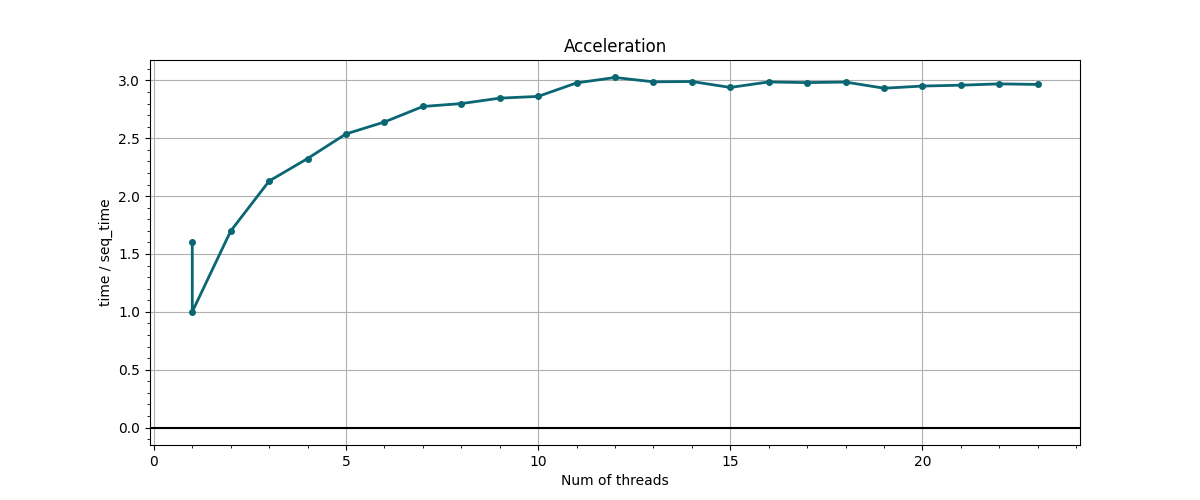
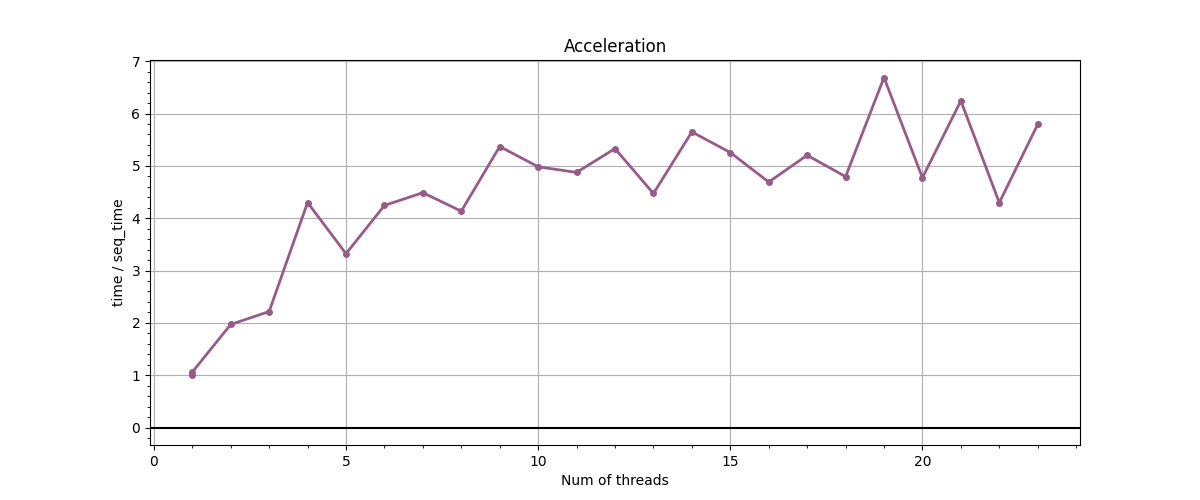
Paralleled it better

diff --git a/ParallelingLoops/2zh/parallel.cpp b/ParallelingLoops/2zh/parallel.cpp
@@ -2,6 +2,7 @@
 #include <string>
 #include <omp.h>
 #include <cmath>
+#include <cstring>
 
 constexpr int SIZE = 5000;
 constexpr int YSIZE = SIZE;
@@ -30,26 +31,61 @@ int main (int argc, char **argv) {
 
 //начало измерения времени
     double time_1 = omp_get_wtime();
-    omp_set_num_threads(strtol(argv[1], nullptr, 10));
+    const int threads = strtol(argv[1], nullptr, 10);
+    if (threads <= 1) {
+        for (int y=0; y < YSIZE - 2; y++){
+            for (int x = 3; x < XSIZE; x++){
+                matrix[y][x] = sin(0.1 * matrix[y+2][x-3]);
+            }
+        }
+        goto Finish;
+    }
+    omp_set_num_threads(threads);
 #pragma omp parallel
     {
-        for (int x = XSIZE - 3; x < XSIZE; ++x) {
-#pragma omp for nowait schedule(dynamic, 100)
-            for (int y = 0; y < YSIZE; ++y) {
-                fill_vector(y, x, matrix);
+        int curr_thr = omp_get_thread_num();
+        int group = curr_thr % 2;
+        int id_in_group = curr_thr / 2;
+        int threads_in_group, lines_of_group;
+        if (group) {
+            threads_in_group = threads / 2;
+            lines_of_group = YSIZE / 2;
+        } else {
+            threads_in_group = (threads + 1) / 2;
+            lines_of_group = (YSIZE + 1) / 2;
+        }
+        int lines = lines_of_group / threads_in_group;
+        int start = lines * id_in_group * 2;
+        if (group) {
+            start++;
+        }
+        double saved[XSIZE];
+        if (id_in_group == threads_in_group - 1) {
+            lines += (lines_of_group % threads_in_group);
+            // printf("[thread %i]: start with %i\n", curr_thr, start);
+        } else {
+            std::memcpy(saved, reinterpret_cast<const void *>(matrix[start + lines * 2]), XSIZE * sizeof(double));
+            // printf("[thread %i]: start with %i, save line %i\n", curr_thr, start, start + lines * 2);
+        }
+#pragma omp barrier
+        int y;
+        for (y = start; y < start + lines * 2 - 2; y += 2) {
+            for (int x = 3; x < XSIZE; ++x) {
+                matrix[y][x] = sin(0.1 * matrix[y+2][x-3]);
             }
         }
-        for (int y = 0; y < 2; ++y) {
-#pragma omp for nowait schedule(dynamic, 100)
-            for (int x = 0; x < XSIZE - 3; ++x) {
-                fill_vector(y, x, matrix);
+        if (id_in_group != threads_in_group - 1) {
+            for (int x = 3; x < XSIZE; ++x) {
+                matrix[y][x] = sin(0.1 * saved[x-3]);
             }
         }
+        //printf("thr %i => %i\n", curr_thr, curr_thr / 2);
     }
+    Finish:
     double time_2 = omp_get_wtime();
 //окончание измерения времени
     printf("%lf", time_2 - time_1);
-    fflush(stdout);
+    //fflush(stdout);
     ff = fopen(out.c_str(),"w");
     for(int y= 0; y < YSIZE; y++){
         for (int x= 0; x < XSIZE; x++){

diff --git a/ParallelingLoops/2zh/acceleration.py b/ParallelingLoops/2zh/acceleration.py
@@ -42,7 +42,7 @@ def main() -> int:
 
     plt.figure(figsize=[12, 5], dpi=100)
     plt.axhline(y=0, color='k')
-    plt.plot(list(sizes), list(map(lambda val: accelerations[1] / val, accelerations)), '-o', markersize=4, linewidth=2, label='y1', color=np.random.rand(3))
+    plt.plot(list(sizes), list(map(lambda val: seq / val, accelerations)), '-o', markersize=4, linewidth=2, label='y1', color=np.random.rand(3))
 
     plt.xlabel("Num of threads")
     plt.ylabel("time / seq_time")
